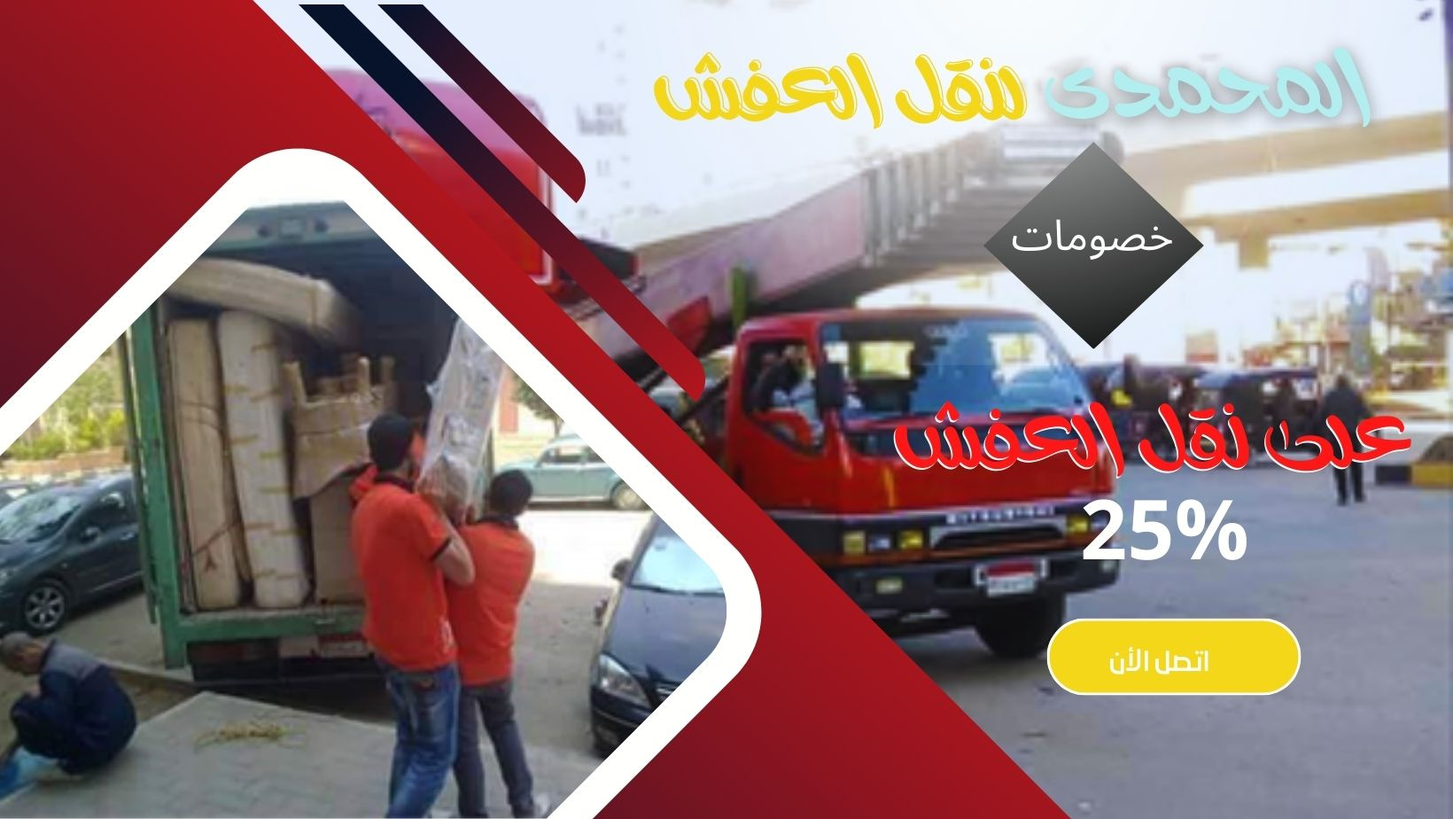
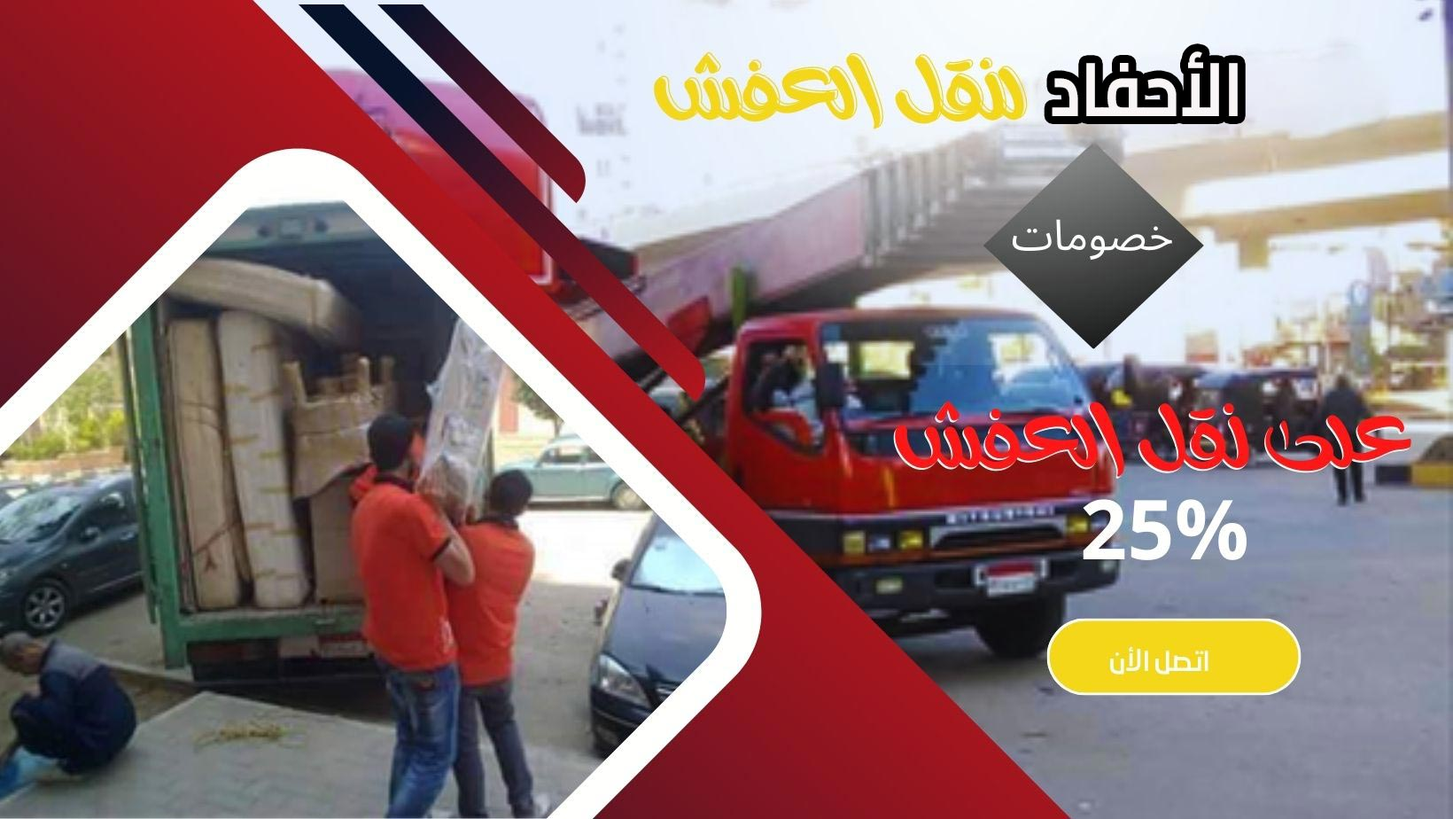
commit

Changed region(s): [[0.7152, 0.0606, 0.964, 0.1818]]

diff --git a/index.html b/index.html
@@ -3,7 +3,7 @@
 
 <head>
     <meta charset="utf-8">
-    <title>شركة المحمدى لنقل وتغليف الاثاث 01030484940</title>
+    <title>شركة الأحفاد لنقل وتغليف الاثاث 01011565860</title>
     <meta content="width=device-width, initial-scale=1.0" name="viewport">
     <meta content="" name="keywords">
     <meta content="" name="description">
@@ -50,7 +50,7 @@
             <div class="col-lg-7 px-5 text-start">
                 <div class="h-100 d-inline-flex align-items-center me-4">
                     <small class="fa fa-phone-alt me-2"></small>
-                    <small>01030484940</small>
+                    <small>01011565860</small>
                 </div>
                 <div class="h-100 d-inline-flex align-items-center me-4">
                     <small class="far fa-envelope-open me-2"></small>
@@ -71,17 +71,17 @@
     <!-- Topbar End -->
     <!-- Navbar Start -->
     <nav class="navbar navbar-expand-lg bg-white navbar-light sticky-top px-4 px-lg-5" style="top: -100px; font-size: 11px;">
-        <img src="images/aums1nEMxovognTJA3LP7DjS8Tz3r8D20lhrGtL4.png" class="img-responsive" style="max-width: none; max-height: none; width: 63px; height: 58px;"><span style="background-color: transparent; font-size: 14px;">شركة المحمدى لنقل وتغليف الأثاث</span>
+        <img src="images/aums1nEMxovognTJA3LP7DjS8Tz3r8D20lhrGtL4.png" class="img-responsive" style="max-width: none; max-height: none; width: 63px; height: 58px;"><span style="background-color: transparent; font-size: 14px;">شركة الأحفاد لنقل وتغليف الأثاث</span>
         <a href="index.html" class="navbar-brand d-flex align-items-center">
         </a>
         <h2 style="">
             <div style="text-align: center;"><span style="background-color: transparent; max-width: none; max-height: none; width: 646px; height: 44px; font-size: 18px;">
-                    <div style="text-align: right;"><span style="background-color: transparent; max-width: none; max-height: none; width: 525px; height: 32px; margin: 0px 0px 0px 38px;">01030484940 - 01022423204</span></div>
+                    <div style="text-align: right;"><span style="background-color: transparent; max-width: none; max-height: none; width: 525px; height: 32px; margin: 0px 0px 0px 38px;">01011565860 - 01011565860</span></div>
                 </span></div>
         </h2>
         <div class="navbar-collapse collapse show" id="navbarCollapse" style="">
         </div>
-        <a href="tel:01022423204" class="btn btn-primary px-3 d-none d-lg-block">إتصل اليوم واحجز</a>
+        <a href="tel:01011565860" class="btn btn-primary px-3 d-none d-lg-block">إتصل اليوم واحجز</a>
     </nav>
     <!-- Navbar End -->
     <!-- Carousel Start -->
@@ -131,7 +131,7 @@
     <div id="Layer1" title="Social Media Sticky">
         <div id="Layer1_Container">
             <div id="wb_Icon1">
-                <a href="tel:01022423204">
+                <a href="tel:01011565860">
                     <div id="Icon1"><i class="fa fa-phone-square"></i></div>
                 </a></div>
             <div id="wb_Text1">
@@ -159,12 +159,12 @@
                 <div class="col-lg-6 wow fadeInUp" data-wow-delay="0.5s" style="visibility: hidden; animation-delay: 0.5s; animation-name: none;">
                     <div class="h-100" style="text-align: center;">
                         <h1 class="display-6 mb-5">
-                            <div style="text-align: center;"><span style="background-color: transparent; font-size: 36px;">شركة المحمدى لنقل العفش بخصم كبير&nbsp;</span></div>
-                            <div style="text-align: center;"><span style="background-color: transparent; font-size: 23px; color: rgb(231, 209, 9);">01030484940 -&nbsp;01022423204</span></div>
+                            <div style="text-align: center;"><span style="background-color: transparent; font-size: 36px;">شركة الأحفاد لنقل العفش بخصم كبير&nbsp;</span></div>
+                            <div style="text-align: center;"><span style="background-color: transparent; font-size: 23px; color: rgb(231, 209, 9);">01011565860 -&nbsp;01011565860</span></div>
                         </h1>
                         <p class="fs-5 text-primary mb-4" style="color: rgb(230, 34, 16);"></p>
                         <div class=""><span style="font-size: 1.25rem;">
-                                <div dir="rtl" style="text-align: justify;"><span style="font-size: 15px;">شركة المحمدى لنقل الاثاث أفضل شركة نقل اثاث في الجمهورية تساعد الأفراد والشركات على نقل الأثاث من منازلهم أو مكاتبهم من مكان إلى آخر</span></div>
+                                <div dir="rtl" style="text-align: justify;"><span style="font-size: 15px;">شركة الأحفاد لنقل الاثاث أفضل شركة نقل اثاث في الجمهورية تساعد الأفراد والشركات على نقل الأثاث من منازلهم أو مكاتبهم من مكان إلى آخر</span></div>
                             </span></div>
                         <p></p>
                         <div class="row g-4 mb-4">
@@ -181,8 +181,8 @@
                             </div>
                             <div class="col-sm-6">
                                 <div class="d-flex align-items-center" style="font-size: 58px; color: rgb(20, 137, 226);">
-                                    <h5 class="mb-0" style="margin: 0px; max-width: none; max-height: none; width: 519px; height: 25.6406px; color: rgb(194, 16, 16);">01022423204</h5>
-                                    <h5 class="mb-0" style="margin: 0px; max-width: none; max-height: none; width: 519px; height: 25.6406px; color: rgb(194, 16, 16);">01030484940</h5>
+                                    <h5 class="mb-0" style="margin: 0px; max-width: none; max-height: none; width: 519px; height: 25.6406px; color: rgb(194, 16, 16);">01011565860</h5>
+                                    <h5 class="mb-0" style="margin: 0px; max-width: none; max-height: none; width: 519px; height: 25.6406px; color: rgb(194, 16, 16);">01011565860</h5>
                                 </div>
                             </div>
                         </div>
@@ -212,11 +212,11 @@
                         <img class="img-fluid" src="images/8urZnKeSXWF1RAzuRPD3ANi6hHqBxEBXu1ud1U9z.jpg" alt="">
                         <div class="text-center p-4">
                             <h5>شركة نقل اثاث بمدينة نصر</h5>
-                            <p>01030484940 - 01022423204</p>
+                            <p>01011565860 - 01011565860</p>
                         </div>
                         <div class="team-text text-center bg-white p-4">
                             <h5>شركة نقل اثاث بمدينة نصر</h5>
-                            <p>01030484940 - 01022423204</p>
+                            <p>01011565860 - 01011565860</p>
                             <div class="d-flex justify-content-center">
                                 <a class="btn btn-square btn-light m-1" href=""><i class="fab fa-twitter"></i></a>
                                 <a class="btn btn-square btn-light m-1" href=""><i class="fab fa-facebook-f"></i></a>
@@ -231,11 +231,11 @@
                         <img class="img-fluid" src="images/i86l56cwqd1VnyhPSSIcU2QUHeXmr3ezMlIIID01.png" alt="">
                         <div class="text-center p-4">
                             <h5>شركة نقل اثاث بمصر الجديدة</h5>
-                            <p>01030484940 - 01022423204</p>
+                            <p>01011565860 - 01011565860</p>
                         </div>
                         <div class="team-text text-center bg-white p-4">
                             <h5>شركة نقل اثاث بمصر الجديدة</h5>
-                            <p>01030484940 - 01022423204</p>
+                            <p>01011565860 - 01011565860</p>
                             <div class="d-flex justify-content-center">
                                 <a class="btn btn-square btn-light m-1" href=""><i class="fab fa-twitter"></i></a>
                                 <a class="btn btn-square btn-light m-1" href=""><i class="fab fa-facebook-f"></i></a>
@@ -250,11 +250,11 @@
                         <img class="img-fluid" src="images/a5nlD12ulzjAQjdrYyRJC1Wwn3IERKBjjgOWpm2M.jpg" alt="">
                         <div class="text-center p-4">
                             <h5>شركة نقل اثاث بالتجمع الخامس</h5>
-                            <p>01030484940 - 01022423204</p>
+                            <p>01011565860 - 01011565860</p>
                         </div>
                         <div class="team-text text-center bg-white p-4">
                             <h5>شركة نقل اثاث بالتجمع الخامس</h5>
-                            <p>01030484940 - 01022423204</p>
+                            <p>01011565860 - 01011565860</p>
                             <div class="d-flex justify-content-center">
                                 <a class="btn btn-square btn-light m-1" href=""><i class="fab fa-twitter"></i></a>
                                 <a class="btn btn-square btn-light m-1" href=""><i class="fab fa-facebook-f"></i></a>
@@ -269,11 +269,11 @@
                         <img class="img-fluid" src="images/Mh3tBIVaa37BPqkPa3rlldnjzUWjciOrj6l3P8VC.jpg" alt="">
                         <div class="text-center p-4">
                             <h5>شركة نقل اثاث بالرحاب</h5>
-                            <p>01030484940 - 01022423204</p>
+                            <p>01011565860 - 01011565860</p>
                         </div>
                         <div class="team-text text-center bg-white p-4">
                             <h5>شركة نقل اثاث بالرحاب</h5>
-                            <p>01030484940 - 01022423204</p>
+                            <p>01011565860 - 01011565860</p>
                             <div class="d-flex justify-content-center">
                                 <a class="btn btn-square btn-light m-1" href=""><i class="fab fa-twitter"></i></a>
                                 <a class="btn btn-square btn-light m-1" href=""><i class="fab fa-facebook-f"></i></a>
@@ -299,11 +299,11 @@
                         <img class="img-fluid" src="images/yfiNU9wsfhwqsg8rvErmiXePAGeeAiY0OnRULv1I.jpg" alt="">
                         <div class="text-center p-4">
                             <h5>شركة نقل اثاث بالشيخ زايد</h5>
-                            <p>01030484940 - 01022423204</p>
+                            <p>01011565860 - 01011565860</p>
                         </div>
                         <div class="team-text text-center bg-white p-4">
                             <h5>شركة نقل اثاث بالشيخ زايد</h5>
-                            <p>01030484940 - 01022423204</p>
+                            <p>01011565860 - 01011565860</p>
                             <div class="d-flex justify-content-center">
                                 <a class="btn btn-square btn-light m-1" href=""><i class="fab fa-twitter"></i></a>
                                 <a class="btn btn-square btn-light m-1" href=""><i class="fab fa-facebook-f"></i></a>
@@ -318,11 +318,11 @@
                         <img class="img-fluid" src="images/8nkqzobQDl9NNlJm5TR1OrnmqZMyz7ZdVDHY0dPf.jpg" alt="">
                         <div class="text-center p-4">
                             <h5>شركة نقل اثاث بالمعادى</h5>
-                            <p>01030484940 - 01022423204</p>
+                            <p>01011565860 - 01011565860</p>
                         </div>
                         <div class="team-text text-center bg-white p-4">
                             <h5>شركة نقل اثاث بالمعادى</h5>
-                            <p>01030484940 - 01022423204</p>
+                            <p>01011565860 - 01011565860</p>
                             <div class="d-flex justify-content-center">
                                 <a class="btn btn-square btn-light m-1" href=""><i class="fab fa-twitter"></i></a>
                                 <a class="btn btn-square btn-light m-1" href=""><i class="fab fa-facebook-f"></i></a>
@@ -337,11 +337,11 @@
                         <img class="img-fluid" src="images/72R75gqbCOuHHyMDk2Dsw6fn8bAHr1oer3wZ8nGf.jpg" alt="">
                         <div class="text-center p-4">
                             <h5>شركة نقل اثاث بالمهندسين</h5>
-                            <p>01030484940 - 01022423204</p>
+                            <p>01011565860 - 01011565860</p>
                         </div>
                         <div class="team-text text-center bg-white p-4">
                             <h5>شركة نقل اثاث بالمهندسين</h5>
-                            <p>01030484940 - 01022423204</p>
+                            <p>01011565860 - 01011565860</p>
                             <div class="d-flex justify-content-center">
                                 <a class="btn btn-square btn-light m-1" href=""><i class="fab fa-twitter"></i></a>
                                 <a class="btn btn-square btn-light m-1" href=""><i class="fab fa-facebook-f"></i></a>
@@ -356,11 +356,11 @@
                         <img class="img-fluid" src="images/6DnU5sQAE7dEyaSEElReKX9VVAxPDD8NLYxxQ0GO.jpg" alt="">
                         <div class="text-center p-4">
                             <h5>شركة نقل اثاث بالدقى</h5>
-                            <p>01030484940 - 01022423204</p>
+                            <p>01011565860 - 01011565860</p>
                         </div>
                         <div class="team-text text-center bg-white p-4">
                             <h5>شركة نقل اثاث بالدقى</h5>
-                            <p>01030484940 - 01022423204</p>
+                            <p>01011565860 - 01011565860</p>
                             <div class="d-flex justify-content-center">
                                 <a class="btn btn-square btn-light m-1" href=""><i class="fab fa-twitter"></i></a>
                                 <a class="btn btn-square btn-light m-1" href=""><i class="fab fa-facebook-f"></i></a>
@@ -389,7 +389,7 @@
                         <p class="text-light mb-5"></p>
                         <div style="text-align: center;"></div>
                         <p></p>
-                        <a href="tel:01022423204" style="display: flex; justify-content: center;" class="btn btn-secondary py-3 px-5">إتصل الأن</a>
+                        <a href="tel:01011565860" style="display: flex; justify-content: center;" class="btn btn-secondary py-3 px-5">إتصل الأن</a>
                     </div>
                 </div>
                 <div style="text-align: center; visibility: hidden; animation-delay: 0.5s; animation-name: none;" class="col-lg-6 facts-counter wow fadeIn" data-wow-delay="0.5s">
@@ -426,12 +426,12 @@
             <div class="row g-5">
                 <div class="col-lg-6 wow fadeInUp" data-wow-delay="0.1s" style="visibility: hidden; animation-delay: 0.1s; animation-name: none;">
                     <h1 class="display-6 mb-5" style="font-size: 32px;">
-                        <div style="text-align: center;"><span style="background-color: transparent;">&nbsp;ننصحك بالتعامل مع شركة المحمدى لنقل العفش</span></div>
+                        <div style="text-align: center;"><span style="background-color: transparent;">&nbsp;ننصحك بالتعامل مع شركة الأحفاد لنقل العفش</span></div>
                     </h1>
                     <p class="mb-4" style="font-size: 15px;"></p>
                     <div style="text-align: center; color: rgb(33, 6, 6); font-size: 18px;">
                         <div style="text-align: right;" class="">
-                            <div dir="rtl" style="text-align: justify;">لقد كانت شركتنا شركة المحمدى لنقل الاثاث مصدر موثوق به لسنوات كثيرة كجزء من أكبر منظمة في مصر تقدم خدمات النقل والتخزين ،و تقدم مجموعة كاملة من خدمات النقل القابلة للتخصيص وهي قادرة على المساعدة في التحركات من أي حجم ؛ لا يهم إلى أين تذهب بعد ذلك. اكتشف ما الذي يميزنا عن شركات النقل الأخرى ودع عمالنا يتعاملون مع خطوتك الكبيرة التالية.</div>
+                            <div dir="rtl" style="text-align: justify;">لقد كانت شركتنا شركة الأحفاد لنقل الاثاث مصدر موثوق به لسنوات كثيرة كجزء من أكبر منظمة في مصر تقدم خدمات النقل والتخزين ،و تقدم مجموعة كاملة من خدمات النقل القابلة للتخصيص وهي قادرة على المساعدة في التحركات من أي حجم ؛ لا يهم إلى أين تذهب بعد ذلك. اكتشف ما الذي يميزنا عن شركات النقل الأخرى ودع عمالنا يتعاملون مع خطوتك الكبيرة التالية.</div>
                         </div>
                     </div>
                     <p></p>
@@ -496,7 +496,7 @@
                         <p class="mb-4"></p>
                         <div style="text-align: center; font-size: 15px;">تغليف شامل للعفش بأجود خامات التغليف</div>
                         <p></p>
-                        <a style="display: flex; justify-content: center;" class="btn btn-light px-3" href="tel:01030484940">إحجز اليوم</a>
+                        <a style="display: flex; justify-content: center;" class="btn btn-light px-3" href="tel:01011565860">إحجز اليوم</a>
                     </div>
                 </div>
                 <div class="col-lg-4 col-md-6 wow fadeInUp" data-wow-delay="0.3s" style="visibility: hidden; animation-delay: 0.3s; animation-name: none;">
@@ -509,7 +509,7 @@
                         <p class="mb-4"></p>
                         <div style="text-align: center; font-size: 15px;">سيارات نقل عفش مجهزة&nbsp; ومغلقة لنقل العفش بأمان</div>
                         <p></p>
-                        <a style="display: flex; justify-content: center;" class="btn btn-light px-3" href="tel:01030484940">إحجز اليوم</a>
+                        <a style="display: flex; justify-content: center;" class="btn btn-light px-3" href="tel:01011565860">إحجز اليوم</a>
                     </div>
                 </div>
                 <div class="col-lg-4 col-md-6 wow fadeInUp" data-wow-delay="0.5s" style="visibility: hidden; animation-delay: 0.5s; animation-name: none;">
@@ -522,7 +522,7 @@
                         <p class="mb-4" style="font-size: 15px;"></p>
                         <div style="text-align: center; font-size: 15px;">عمالة فنية مخصصة ومدربة لنقل العفش بامان تام</div>
                         <p></p>
-                        <a style="display: flex; justify-content: center;" class="btn btn-light px-3" href="tel:01030484940">إحجز اليوم</a>
+                        <a style="display: flex; justify-content: center;" class="btn btn-light px-3" href="tel:01011565860">إحجز اليوم</a>
                     </div>
                 </div>
                 <div class="col-lg-4 col-md-6 wow fadeInUp" data-wow-delay="0.1s" style="visibility: hidden; animation-delay: 0.1s; animation-name: none;">
@@ -535,7 +535,7 @@
                         <p class="mb-4" style="font-size: 15px;"></p>
                         <div style="text-align: center; font-size: 15px;">لدينا نجاريين لفك وتركيب جميع انواع الغرف</div>
                         <p></p>
-                        <a style="display: flex; justify-content: center;" class="btn btn-light px-3" href="tel:01030484940">إحجز اليوم</a>
+                        <a style="display: flex; justify-content: center;" class="btn btn-light px-3" href="tel:01011565860">إحجز اليوم</a>
                     </div>
                 </div>
                 <div class="col-lg-4 col-md-6 wow fadeInUp" data-wow-delay="0.3s" style="visibility: hidden; animation-delay: 0.3s; animation-name: none;">
@@ -548,7 +548,7 @@
                         <p class="mb-4" style="font-size: 15px;"></p>
                         <div style="text-align: center; font-size: 15px;">لدبنا مجموعة مميزة لفك زتركيب جميع انواع التكييفات</div>
                         <p></p>
-                        <a style="display: flex; justify-content: center;" class="btn btn-light px-3" href="tel:01030484940">إحجز اليوم</a>
+                        <a style="display: flex; justify-content: center;" class="btn btn-light px-3" href="tel:01011565860">إحجز اليوم</a>
                     </div>
                 </div>
                 <div class="col-lg-4 col-md-6 wow fadeInUp" data-wow-delay="0.5s" style="visibility: hidden; animation-delay: 0.5s; animation-name: none;">
@@ -563,7 +563,7 @@
                         <p class="mb-4" style="font-size: 15px;"></p>
                         <div style="text-align: center; font-size: 15px;">ونش هيدروليكى مخصص لرفع وتنزيل الاثاث من الادوار العالية</div>
                         <p></p>
-                        <a style="display: flex; justify-content: center;" class="btn btn-light px-3" href="tel:01030484940">إحجز اليوم</a>
+                        <a style="display: flex; justify-content: center;" class="btn btn-light px-3" href="tel:01011565860">إحجز اليوم</a>
                     </div>
                 </div>
             </div>
@@ -579,7 +579,7 @@
                         <div style="text-align: center;"><span style="background-color: transparent; font-size: 27px; max-width: none; max-height: none; width: 514.5px; height: 34.1406px; text-align: center;">خدمة 24 ساعة - نعمل طوال ايام الاسبوع وفى الاجازات الرسمية</span></div>
                     </h1>
                     <span style="background-color: initial; color: rgb(243, 239, 239); font-size: 16px;">
-                        <div style="text-align: center;"><b style="background-color: initial;">شركة المحمدى لنقل العفش</b><span style="background-color: initial;"> إذا كنت تبحث عن طريقة موثوقة وبأسعار معقولة لنقل أثاثك عليك التفكير في استئجار خدمة نقل سيارات مغلقة النقل المغلق بالسيارة هو أفضل وسيلة لحماية أثاثك من التلف أثناء النقل</span></div>
+                        <div style="text-align: center;"><b style="background-color: initial;">شركة الأحفاد لنقل العفش</b><span style="background-color: initial;"> إذا كنت تبحث عن طريقة موثوقة وبأسعار معقولة لنقل أثاثك عليك التفكير في استئجار خدمة نقل سيارات مغلقة النقل المغلق بالسيارة هو أفضل وسيلة لحماية أثاثك من التلف أثناء النقل</span></div>
                     </span>
                     <p class="text-white mb-5" style="font-size: 16px;"></p>
                     <div style="text-align: center;"></div>
@@ -589,7 +589,7 @@
                             <img class="flex-shrink-0 rounded-circle me-3" src="images/JWyvbJ4FUxmjE5lpfXxBljNTzeZ8YkwdIiPj7PiX.png" alt="">
                             <h5 class="text-white mb-0">
                                 <div <span="" style="background-color: transparent; font-size: 15px;">
-                                    <div <span="">إتصل بنا : 01030484940&nbsp;</div>
+                                    <div <span="">إتصل بنا : 01011565860&nbsp;</div>
                                 </div>
                             </h5>
                         </div>
@@ -608,7 +608,7 @@
         <div class="container py-5">
             <div class="row g-5">
                 <div class="col-lg-3 col-md-6">
-                    <h1 class="text-white mb-4" style="text-align: center; font-size: 19px;">المحمدى لنقل العفش</h1>
+                    <h1 class="text-white mb-4" style="text-align: center; font-size: 19px;">الأحفاد لنقل العفش</h1>
                     <p></p>
                     <div>يجب عليك التحقق من شركة النقل الخاصة بك ما إذا كانت تستخدم سيارات لنقل الأثاث مغلقة أم لا. لنقل أثاثك بكفاءة وفعالية من حيث التكلفة ، يجب أن يتم التحميل والتفريغ بعناية ، والعربات هي الخيار الأكثر أمانًا لذلك.</div>
                     <p></p>
@@ -620,7 +620,7 @@
                     </div>
                 </div>
                 <div class="col-lg-3 col-md-6">
-                    <p><i class="fa fa-phone-alt me-3"></i>01030484940 - 01022423204</p>
+                    <p><i class="fa fa-phone-alt me-3"></i>01011565860 - 01011565860</p>
                     <p><i class="fa fa-envelope me-3"></i>moh0102242@gmail.com</p>
                 </div>
                 <div class="col-lg-3 col-md-6">
@@ -637,11 +637,11 @@
             <div class="container">
                 <div class="row">
                     <div class="col-md-6 text-center text-md-start mb-3 mb-md-0">
-                        © <a href="#">شركة المحمدى لنقل العفش</a>, All Right Reserved.
+                        © <a href="#">شركة الأحفاد لنقل العفش</a>, All Right Reserved.
                     </div>
                     <div class="col-md-6 text-center text-md-end">
                         <!--/*** This template is free as long as you keep the footer author’s credit link/attribution link/backlink. If you'd like to use the template without the footer author’s credit link/attribution link/backlink, you can purchase the Credit Removal License from "https://htmlcodex.com/credit-removal". Thank you for your support. ***/-->
-                        Designed By <a href="tel:01022423204">كود هاوس</a>
+                        Designed By <a href="tel:01011565860">كود هاوس</a>
                     </div>
                 </div>
             </div>
